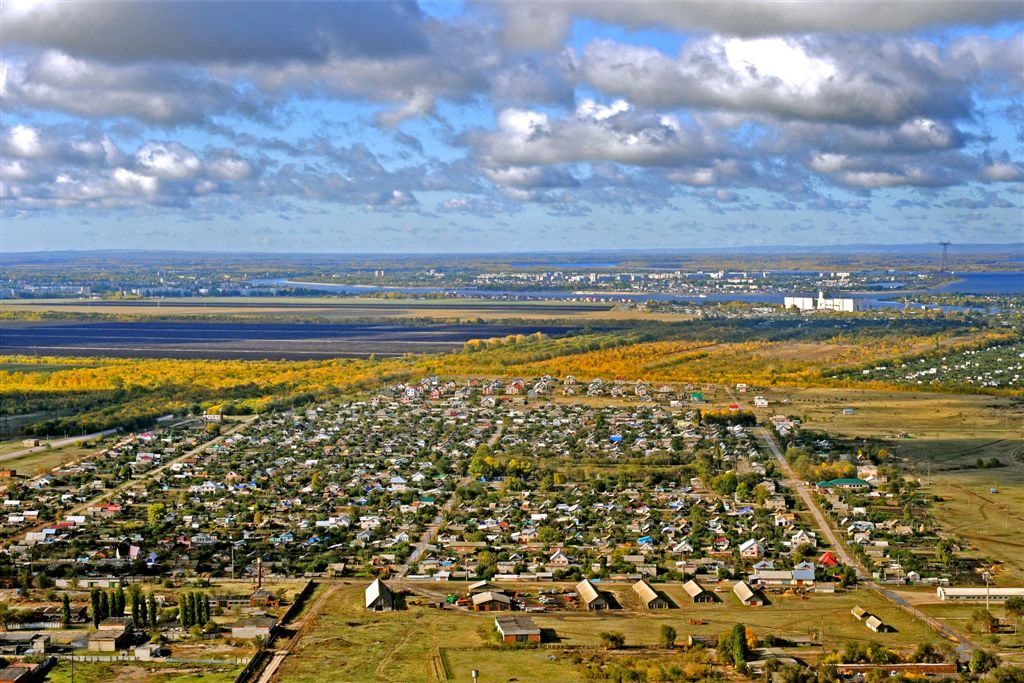
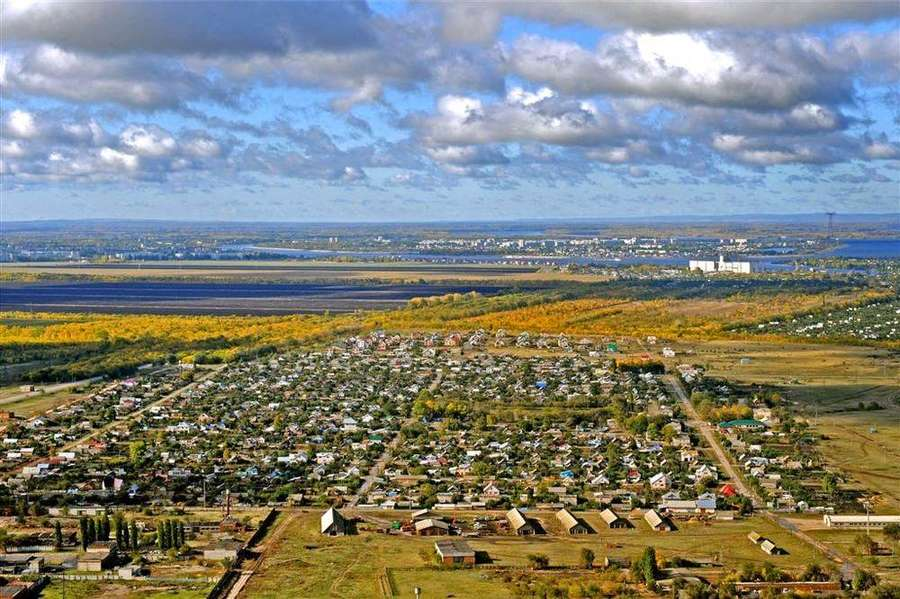
Ускорить загрузку: сжатие фото, LCP priority, кеш .htaccess

diff --git a/src/data/city-landings.ts b/src/data/city-landings.ts
@@ -33,8 +33,7 @@ export const cityLandings: Record<CitySlug, CityLandingContent> = {
       "Строим и продаём частные дома в Саратове и ближайших посёлках: с участком, инженерией и понятной комплектацией. Помогаем с ипотекой и рассрочкой, организуем просмотр в удобное время.",
       "В каталоге — одноэтажные и двухэтажные дома под семейную ипотеку. Каждый объект с планировкой, характеристиками и сопровождением сделки от «Кров-Сервис».",
     ],
-    heroImage:
-      "https://images.unsplash.com/photo-1600596542815-ffad4c1539a9?w=1920&q=80",
+    heroImage: "/images/saratov.jpg",
     heroImageAlt: "Частный дом в Саратове от Кров-Сервис",
     catalogHref: "/catalog/saratov",
     districtsNote: "Саратов и пригороды",
@@ -53,8 +52,7 @@ export const cityLandings: Record<CitySlug, CityLandingContent> = {
       "Продаём дома в развивающихся посёлках Энгельса — СНТ «Новое» и СНТ «Малинки». Участок входит в стоимость, есть варианты с гаражом и мансардой. До города — несколько минут на авто.",
       "Рассрочка через эскроу, семейная ипотека, аккредитация в крупных банках. Офис «Кров-Сервис» — г. Энгельс, Пристанская, 70. Покажем объект и рассчитаем платёж на месте.",
     ],
-    heroImage:
-      "https://images.unsplash.com/photo-1600585154340-be6161a56a0c?w=1920&q=80",
+    heroImage: "/images/engels.jpg",
     heroImageAlt: "Частный дом в Энгельсе от Кров-Сервис",
     catalogHref: "/catalog/engels",
     districtsNote: "СНТ «Новое», СНТ «Малинки»",
@@ -73,8 +71,7 @@ export const cityLandings: Record<CitySlug, CityLandingContent> = {
       "Одноэтажные дома в активно развивающемся посёлке Натальино — около 10 км от Балаково. Участки 10 соток, асфальтированный подъезд, школа и магазины рядом.",
       "Газ по границе участка, скважина и канализация в цене. Подходит под семейную ипотеку. Организуем просмотр и поможем с одобрением в банке.",
     ],
-    heroImage:
-      "https://images.unsplash.com/photo-1600047509807-ba8b3c1d5f0b?w=1920&q=80",
+    heroImage: "/images/balakovo.jpg",
     heroImageAlt: "Частный дом в Балаково, с. Натальино",
     catalogHref: "/catalog/balakovo",
     districtsNote: "с. Натальино",

diff --git a/src/components/sections/Hero.tsx b/src/components/sections/Hero.tsx
@@ -1,11 +1,8 @@
-"use client";
-
 import { Button } from "@/components/ui/button";
 import { getMinHousePrice } from "@/data/houses";
 import { heroBenefits } from "@/data/homepage";
 import { heroData } from "@/data/site";
 import { formatPrice } from "@/lib/utils";
-import { motion } from "framer-motion";
 import { Check } from "lucide-react";
 import Image from "next/image";
 import Link from "next/link";
@@ -28,7 +25,7 @@ export function Hero({
   priceFrom,
   primaryHref = "/catalog",
   secondaryHref = "/#consultation",
-  image = "https://images.unsplash.com/photo-1600596542815-ffad4c1539a9?w=1920&q=80",
+  image = heroData.image,
   imageAlt = heroData.imageAlt,
 }: HeroProps = {}) {
   const priceLabel = `От ${formatPrice(priceFrom ?? getMinHousePrice())}`;
@@ -41,18 +38,14 @@ export function Hero({
           alt={imageAlt}
           fill
           priority
+          fetchPriority="high"
           className="object-cover"
           sizes="100vw"
         />
         <div className="absolute inset-0 bg-gradient-to-r from-black/65 via-black/35 to-transparent" />
 
         <div className="container-main relative flex h-full items-start pt-8 sm:items-center sm:pt-0">
-          <motion.div
-            initial={{ opacity: 0, y: 24 }}
-            animate={{ opacity: 1, y: 0 }}
-            transition={{ duration: 0.6 }}
-            className="max-w-2xl"
-          >
+          <div className="hero-content max-w-2xl">
             <h1 className="text-balance text-3xl font-bold leading-tight text-white sm:text-4xl md:text-5xl lg:text-[52px] lg:leading-[1.12]">
               {title}
               <span className="mt-1 block text-2xl font-semibold text-white/95 sm:text-3xl md:text-4xl lg:text-[40px]">
@@ -89,7 +82,7 @@ export function Hero({
                 </li>
               ))}
             </ul>
-          </motion.div>
+          </div>
         </div>
       </div>
     </section>

diff --git a/src/components/sections/AboutCompany.tsx b/src/components/sections/AboutCompany.tsx
@@ -4,9 +4,6 @@ import { ArrowRight, CheckCircle2 } from "lucide-react";
 import Image from "next/image";
 import Link from "next/link";
 
-const aboutImage =
-  "https://images.unsplash.com/photo-1503387762-592deb58ef4e?w=900&q=80";
-
 export function AboutCompany() {
   return (
     <section className="section-padding bg-white">
@@ -14,11 +11,12 @@ export function AboutCompany() {
         <div className="grid items-center gap-8 lg:grid-cols-2 lg:gap-12">
           <div className="relative aspect-[16/10] overflow-hidden rounded-card shadow-card lg:aspect-[4/3]">
             <Image
-              src={aboutImage}
+              src={aboutCompanyData.image}
               alt={aboutCompanyData.title}
               fill
               className="object-cover"
               sizes="(max-width: 1024px) 100vw, 50vw"
+              loading="lazy"
             />
           </div>
           <div>

diff --git a/src/components/cards/HouseCard.tsx b/src/components/cards/HouseCard.tsx
@@ -24,7 +24,9 @@ type HouseCardProps = Pick<
   | "promoLabel"
   | "image"
   | "images"
->;
+> & {
+  priority?: boolean;
+};
 
 const badgeStyles: Record<HouseBadge, string> = {
   new: "bg-primary text-white",
@@ -50,6 +52,7 @@ export function HouseCard(props: HouseCardProps) {
     rooms,
     badge,
     promoLabel,
+    priority = false,
   } = props;
   const house = props as House;
   const cover = getHouseCover(house);
@@ -62,6 +65,7 @@ export function HouseCard(props: HouseCardProps) {
           alt={title}
           fill
           objectFit="contain"
+          priority={priority}
           sizes="(max-width: 768px) 100vw, (max-width: 1200px) 50vw, 25vw"
         />
         <div className="absolute left-3 top-3 flex gap-1.5 sm:left-4 sm:top-4">

diff --git a/src/components/sections/SeoIntro.tsx b/src/components/sections/SeoIntro.tsx
@@ -1,9 +1,6 @@
 import { seoIntroData } from "@/data/homepage";
 import Image from "next/image";
 
-const defaultImage =
-  "https://images.unsplash.com/photo-1600585154340-be6161a56a0c?w=900&q=80";
-
 interface SeoIntroProps {
   title?: string;
   paragraphs?: string[];
@@ -14,7 +11,7 @@ interface SeoIntroProps {
 export function SeoIntro({
   title = seoIntroData.title,
   paragraphs = seoIntroData.paragraphs,
-  image = defaultImage,
+  image = seoIntroData.image,
   imageAlt,
 }: SeoIntroProps = {}) {
   return (
@@ -28,6 +25,7 @@ export function SeoIntro({
               fill
               className="object-cover"
               sizes="(max-width: 1024px) 100vw, 50vw"
+              loading="lazy"
             />
           </div>
           <div>

diff --git a/src/app/catalog/CatalogPageClient.tsx b/src/app/catalog/CatalogPageClient.tsx
@@ -61,8 +61,8 @@ export function CatalogPageClient() {
         <div className="container-main">
           {results.length > 0 ? (
             <div className="grid grid-cols-1 gap-5 sm:grid-cols-2 sm:gap-6 lg:grid-cols-3 xl:grid-cols-4 lg:gap-7">
-              {results.map((house) => (
-                <HouseCard key={house.id} {...house} />
+              {results.map((house, index) => (
+                <HouseCard key={house.id} {...house} priority={index < 2} />
               ))}
             </div>
           ) : (

diff --git a/src/components/sections/NewHouses.tsx b/src/components/sections/NewHouses.tsx
@@ -34,8 +34,8 @@ export function NewHouses({
 
         {displayHouses.length > 0 ? (
           <div className="grid grid-cols-1 gap-5 sm:grid-cols-2 sm:gap-6 lg:grid-cols-4 lg:gap-7">
-            {displayHouses.map((house) => (
-              <HouseCard key={house.id} {...house} />
+            {displayHouses.map((house, index) => (
+              <HouseCard key={house.id} {...house} priority={index < 2} />
             ))}
           </div>
         ) : (

diff --git a/src/data/site.ts b/src/data/site.ts
@@ -165,7 +165,7 @@ export const citiesData = [
     housesCount: 18,
     projectsCount: 24,
     priceFrom: 6_500_000,
-    image: "/images/saratov.png",
+    image: "/images/saratov.jpg",
     href: "/catalog/saratov",
   },
   {
@@ -174,7 +174,7 @@ export const citiesData = [
     housesCount: 14,
     projectsCount: 16,
     priceFrom: 6_500_000,
-    image: "/images/engels.png",
+    image: "/images/engels.jpg",
     href: "/catalog/engels",
   },
   {

diff --git a/src/components/sections/PopularHouses.tsx b/src/components/sections/PopularHouses.tsx
@@ -79,8 +79,8 @@ export function PopularHouses({
 
         {filtered.length > 0 ? (
           <div className="grid grid-cols-1 gap-5 sm:grid-cols-2 sm:gap-6 lg:grid-cols-4 lg:gap-7">
-            {filtered.map((house) => (
-              <HouseCard key={house.id} {...house} />
+            {filtered.map((house, index) => (
+              <HouseCard key={house.id} {...house} priority={index < 1} />
             ))}
           </div>
         ) : (

diff --git a/src/app/globals.css b/src/app/globals.css
@@ -59,4 +59,25 @@
   .text-balance {
     text-wrap: balance;
   }
+
+  .hero-content {
+    animation: hero-fade-in 0.55s ease-out both;
+  }
+
+  @keyframes hero-fade-in {
+    from {
+      opacity: 0;
+      transform: translate3d(0, 16px, 0);
+    }
+    to {
+      opacity: 1;
+      transform: translate3d(0, 0, 0);
+    }
+  }
+
+  @media (prefers-reduced-motion: reduce) {
+    .hero-content {
+      animation: none;
+    }
+  }
 }

diff --git a/src/components/cards/CityCard.tsx b/src/components/cards/CityCard.tsx
@@ -33,7 +33,7 @@ export function CityCard({
         src={image}
         alt={`Дома в ${name}`}
         fill
-        className="object-cover transition-transform duration-500 group-hover:scale-105"
+        className="object-cover transition-transform duration-500 will-change-transform group-hover:scale-105"
         sizes="(max-width: 768px) 100vw, 33vw"
         loading="lazy"
       />

diff --git a/src/app/layout.tsx b/src/app/layout.tsx
@@ -15,7 +15,8 @@ const inter = Inter({
   subsets: ["latin", "cyrillic"],
   variable: "--font-inter",
   display: "swap",
-  weight: ["400", "500", "600", "700"],
+  weight: ["400", "600", "700"],
+  preload: true,
 });
 
 export const metadata: Metadata = {
